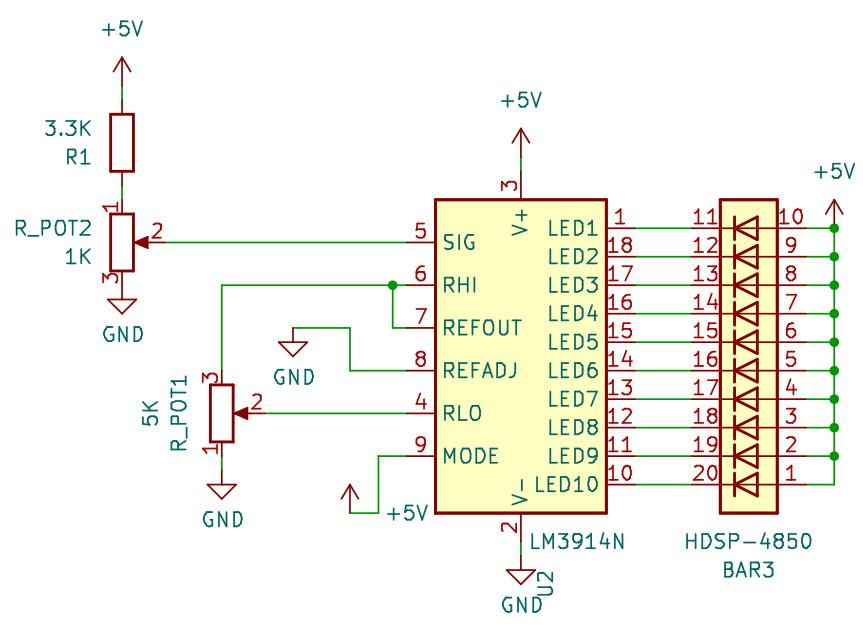
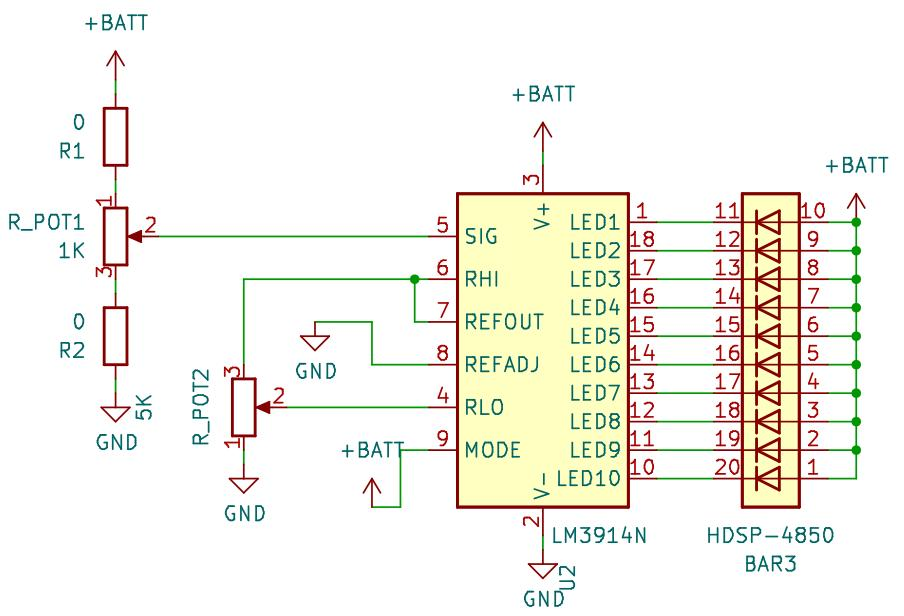
u

Changed region(s): [[0.0, 0.0, 0.9942, 0.987]]

diff --git a/blogs/electronics/2023_07_jul.html b/blogs/electronics/2023_07_jul.html
@@ -36,9 +36,9 @@
         <h4>Voltage meter with LM3914</h4>
 
         <p>
-        0V to 15V, fixed<br>
-        <a href="https://circuitdigest.com/electronic-circuits/lm3914-voltmeter-circuit">
-          https://circuitdigest.com/electronic-circuits/lm3914-voltmeter-circuit </a><br>
+          0V to 15V, fixed<br>
+          <a href="https://circuitdigest.com/electronic-circuits/lm3914-voltmeter-circuit">
+            https://circuitdigest.com/electronic-circuits/lm3914-voltmeter-circuit </a><br>
         </p>
 
         <p>
@@ -95,6 +95,43 @@
           <a href="https://www.amazon.com/LM3914-Battery-Indicator-Module-Tester/dp/B095WQFYGK">
             https://www.amazon.com/LM3914-Battery-Indicator-Module-Tester/dp/B095WQFYGK </a><br>
         </p>
+
+
+        <a href="https://www.amazon.com/dp/B095WNL7FM">https://www.amazon.com/dp/B095WNL7FM</a><br>
+
+
+        Probably same circuit:<br>
+
+
+
+        <a href="https://www.amazon.com/Segment-Battery-Capacity-Indicator-Display/dp/B07JKDLG9M/">
+          https://www.amazon.com/Segment-Battery-Capacity-Indicator-Display/dp/B07JKDLG9M/</a><br>
+
+
+
+        <a href="https://www.amazon.com/LM3914-Battery-Indicator-Module-Tester/dp/B095WQ8KTX">
+          https://www.amazon.com/LM3914-Battery-Indicator-Module-Tester/dp/B095WQ8KTX
+        </a><br>
+
+
+
+        <a href="https://www.amazon.com/Exiron-Battery-Capacity-Indicator-LM3914/dp/B07FM5FK6B">
+          https://www.amazon.com/Exiron-Battery-Capacity-Indicator-LM3914/dp/B07FM5FK6B
+        </a><br>
+
+
+
+        <a
+          href="https://www.icstation.com/lm3914-green-display-module-segments-battery-power-indicator-battery-capacity-indicating-tester-kits-p-12003.html">
+          https://www.icstation.com/lm3914-green-display-module-segments-battery-power-indicator-battery-capacity-indicating-tester-kits-p-12003.html
+        </a><br>
+
+
+        
+        <a href="https://youtu.be/LOE_bnnRpE0?si=RG5_CXvY74Q9_vOb">https://youtu.be/LOE_bnnRpE0?si=RG5_CXvY74Q9_vOb </a><br>
+
+        
+        <a href="http://haodiy.net/index.html">http://haodiy.net/index.html </a><br>
 
 
         <a href=""> </a><br>

diff --git a/techtips/Electronics/LM3914/circuit_05.html b/techtips/Electronics/LM3914/circuit_05.html
@@ -35,8 +35,10 @@
         <img src="images/circuit_05_schem.jpg" alt="circuit_05_schem" width="600">
 
         <p>
-          In this circuit<br>
+          In this circuit the battery voltage can be between 2.4 V and 20 V.<br>
+          The lower limit of the measured range can be between 0 V and the battery voltage.
         </p>
+        <p>Resistors R1 and R2 are optional for further adjustment. (bridge them if not used.)</p>
       </div>
 
 
@@ -51,7 +53,7 @@
 
       <div class="card">
         <h4>Category</h4>
-        <p class="preserve">
+        <p class="preserve_line">
           <a href="index.html">Index</a>
           <a href="description.html">Description</a>
           <a href="module.html">Breadboard Module</a>

diff --git a/techtips/Electronics/LM3914/index.html b/techtips/Electronics/LM3914/index.html
@@ -31,7 +31,7 @@
     <div class="leftcolumn">
 
       <div class="card">
-        <p class="preserve">
+        <p class="preserve_line">
           <a href="description.html">Description</a>
           <a href="module.html">Breadboard Module</a>
           <a href="brightness.html">Brightness</a>
@@ -53,7 +53,7 @@
 
       <div class="card">
         <h4>Category</h4>
-        <p class="preserve">
+        <p class="preserve_line">
           <a href="index.html">Index</a>
           <a href="description.html">Description</a>
           <a href="module.html">Breadboard Module</a>

diff --git a/css/blog.css b/css/blog.css
@@ -55,7 +55,7 @@ body {
   border-radius: 5px;
 }
 
-.preserve{
+.preserve_line{
   white-space: pre-line; 
 }
 
@@ -91,6 +91,17 @@ body {
   margin-top: 5px;
   margin-bottom: 5px;
   font-family: Consolas, "Liberation Mono", Courier, monospace
+}
+
+.code_new {
+  background-color: rgb(224, 224, 228);
+  border: 1px solid rgb(32, 27, 38);
+  border-radius: 4px;
+  padding: 4px 5px;
+  margin-top: 5px;
+  margin-bottom: 5px;
+  font-family: Consolas, "Liberation Mono", Courier, monospace;
+  white-space: pre; 
 }
 
 .data {

diff --git a/blogs/cncjs_autolevel/2023_08_aug.html b/blogs/cncjs_autolevel/2023_08_aug.html
@@ -199,12 +199,12 @@
           </a><br>
 
           Adding this to rules in ./.eslintrc.js fixes it:<br>
-        <div class="code">
-          rules: {<br>
-          "quotes": [1, "double", {<br>
-          "avoidEscape": false,<br>
-          "allowTemplateLiterals": true,<br>
-          }],<br>
+        <div class="code_new">
+          rules: {
+          "quotes": [1, "double", {
+          "avoidEscape": false,
+          "allowTemplateLiterals": true,
+          }],
         </div>
         </p>
 

diff --git a/techtips/Electronics/LM3914/circuit_04.html b/techtips/Electronics/LM3914/circuit_04.html
@@ -164,7 +164,7 @@
 
       <div class="card">
         <h4>Category</h4>
-        <p class="preserve">
+        <p class="preserve_line">
           <a href="index.html">Index</a>
           <a href="description.html">Description</a>
           <a href="module.html">Breadboard Module</a>

diff --git a/techtips/Electronics/LM3914/description.html b/techtips/Electronics/LM3914/description.html
@@ -134,7 +134,7 @@
 
       <div class="card">
         <h4>Category</h4>
-        <p class="preserve">
+        <p class="preserve_line">
           <a href="index.html">Index</a>
           <a href="description.html">Description</a>
           <a href="module.html">Breadboard Module</a>

diff --git a/techtips/Electronics/LM3914/brightness.html b/techtips/Electronics/LM3914/brightness.html
@@ -57,7 +57,7 @@
 
       <div class="card">
         <h4>Category</h4>
-        <p class="preserve">
+        <p class="preserve_line">
           <a href="index.html">Index</a>
           <a href="description.html">Description</a>
           <a href="module.html">Breadboard Module</a>

diff --git a/techtips/Electronics/LM3914/circuit_01.html b/techtips/Electronics/LM3914/circuit_01.html
@@ -72,7 +72,7 @@
 
       <div class="card">
         <h4>Category</h4>
-        <p class="preserve">
+        <p class="preserve_line">
           <a href="index.html">Index</a>
           <a href="description.html">Description</a>
           <a href="module.html">Breadboard Module</a>

diff --git a/techtips/Electronics/LM3914/circuit_02.html b/techtips/Electronics/LM3914/circuit_02.html
@@ -85,7 +85,7 @@
 
       <div class="card">
         <h4>Category</h4>
-        <p class="preserve">
+        <p class="preserve_line">
           <a href="index.html">Index</a>
           <a href="description.html">Description</a>
           <a href="module.html">Breadboard Module</a>

diff --git a/techtips/Electronics/LM3914/circuit_03.html b/techtips/Electronics/LM3914/circuit_03.html
@@ -81,7 +81,7 @@
 
       <div class="card">
         <h4>Category</h4>
-        <p class="preserve">
+        <p class="preserve_line">
           <a href="index.html">Index</a>
           <a href="description.html">Description</a>
           <a href="module.html">Breadboard Module</a>

diff --git a/techtips/Electronics/LM3914/module.html b/techtips/Electronics/LM3914/module.html
@@ -61,7 +61,7 @@
 
       <div class="card">
         <h4>Category</h4>
-        <p class="preserve">
+        <p class="preserve_line">
           <a href="index.html">Index</a>
           <a href="description.html">Description</a>
           <a href="module.html">Breadboard Module</a>
